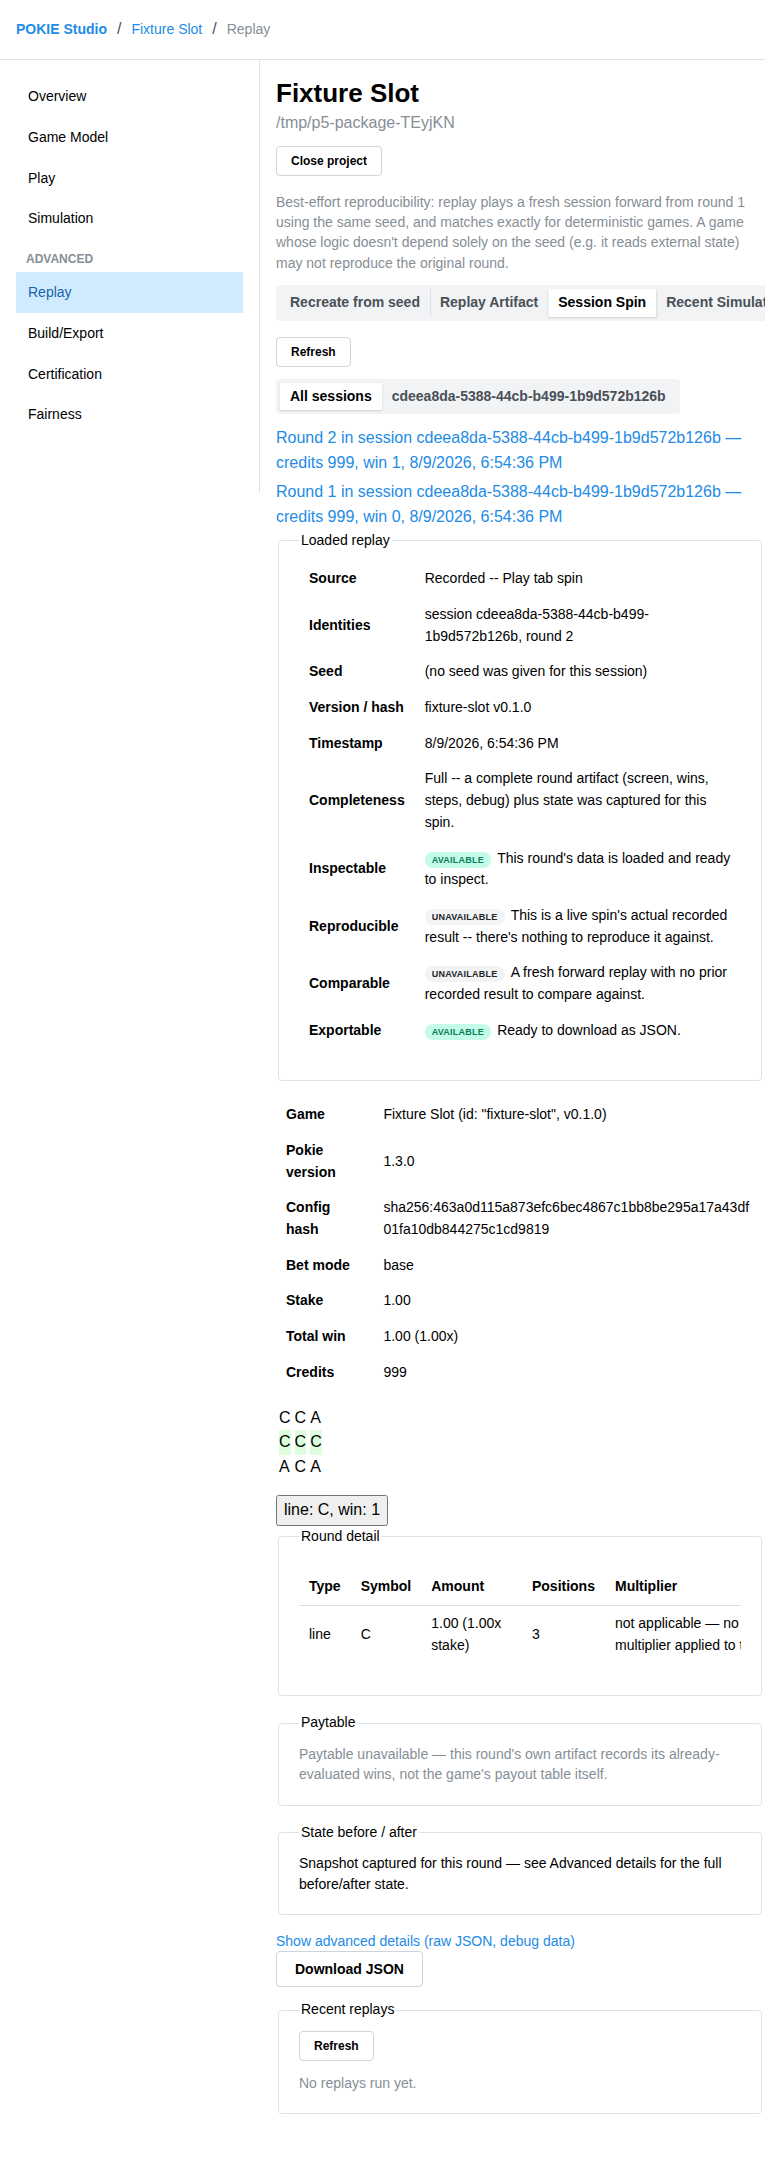
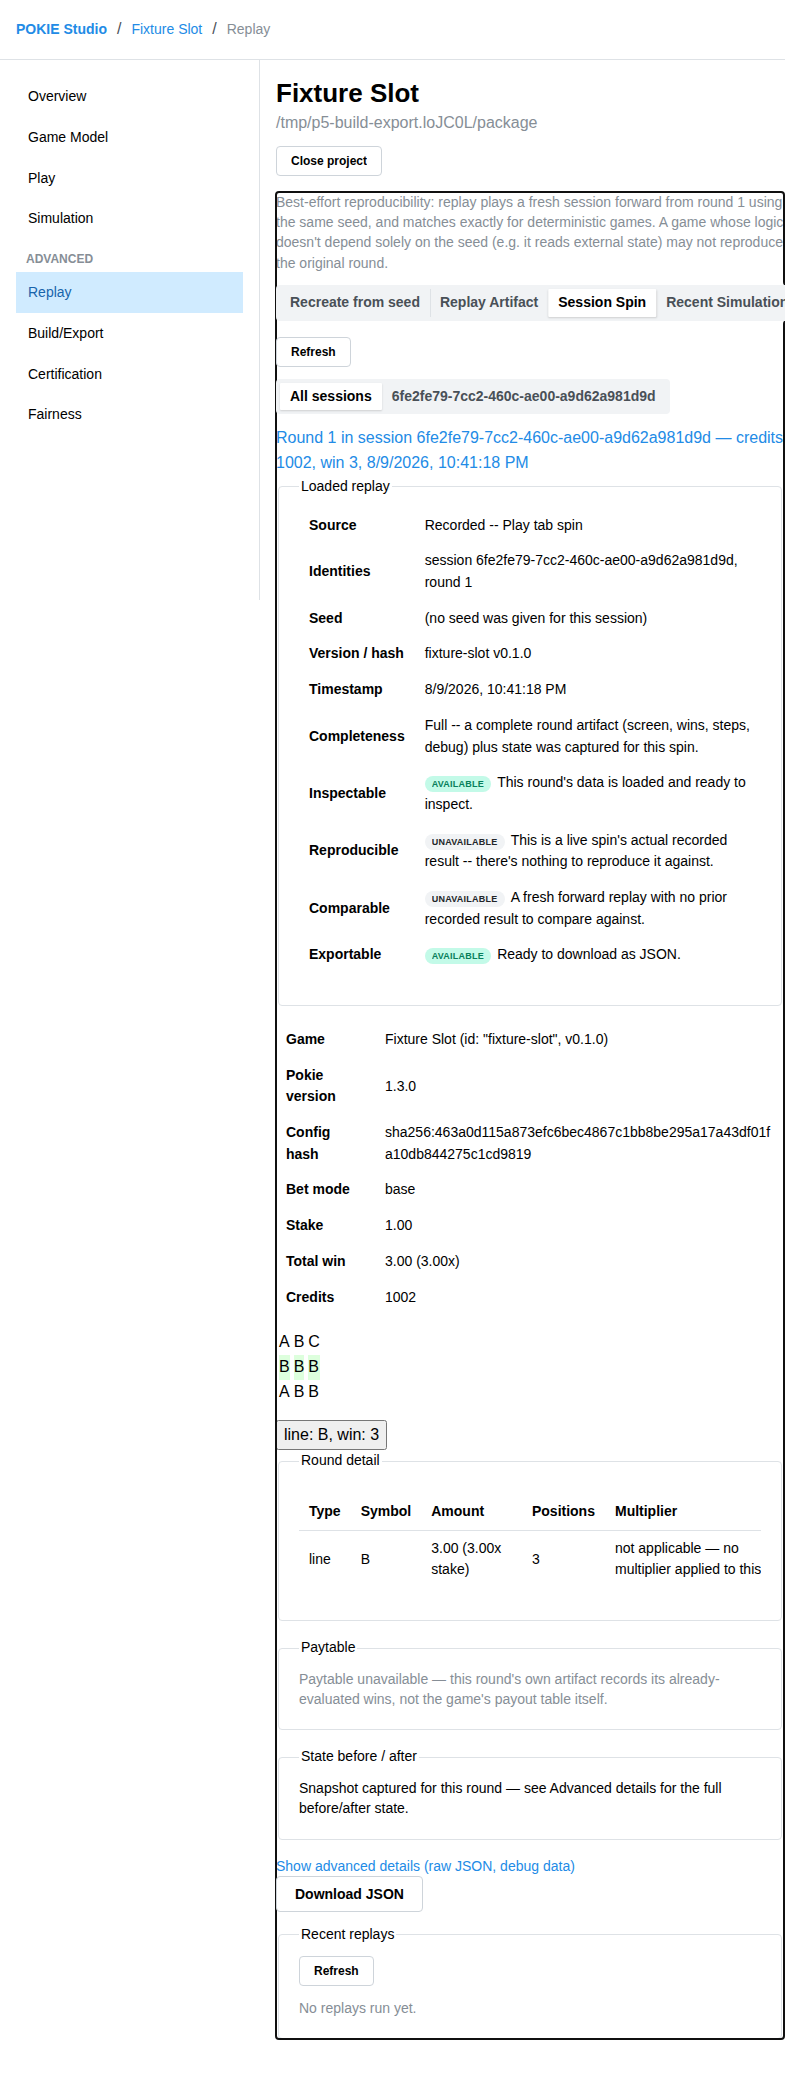
[P5-POLISH-20] promote real Build/Export rerun into complete/ evidence

Changed region(s): [[0.0301, 0.0, 1.0, 0.9938]]

diff --git a/docs/phase5-audit/README.md b/docs/phase5-audit/README.md
@@ -447,7 +447,7 @@ action.
 | Mathematician: Play scenario | `04-mathematician-play-scenario.png` / `.txt` | New session then Find any win displays a settled RoundArtifact. |
 | QA: simulation | `05-qa-simulation-run.png` / `.txt` | A materialized developer package completes 10,000 rounds and shows RTP, confidence interval and its reproducibility warning. |
 | QA: Replay | `06-qa-replay-session-spin.png` / `.txt` | The browser selects a recorded Play spin and opens its complete round inspector. |
-| Integration engineer: Build/Export and developer package | `07-integration-build-export.png` / `.txt` | **Stale — see "Correction round 3" below.** This capture only opened the Build/Export tab; no Generate/Export control was clicked. |
+| Integration engineer: Build/Export and developer package | `07-integration-build-export.png` / `.txt` | **Updated by "Correction round 5" below.** The rendered "Generate outcome library (base)" and "Run Stake Engine Export (base)" controls were both clicked; the capture shows `Generated 11,638 outcomes for mode "base" (RTP 100.00%) into outcomelibrary.` and `Exported 4 file(s) to .../stakeengine.`. |
 
 The package was generated from the audited Blueprint with `pokie build <blueprint> --target tsPackage --out
 <empty-directory>` before the package-backed browser routes were run. Its visible Studio location, plus the
@@ -455,9 +455,11 @@ completed simulation and recorded replay, establish that this is a real develope
 fixture. The transcript distinguishes the Blueprint-hosted edit audit from the package-hosted executable
 journeys; it does not claim that a raw `.json` Blueprint is itself a runnable package.
 
-No P0/P1 or material P2 finding remained in areas 1–6 of this browser pass. **Area 7 (Build/Export) is not yet
-evidenced as an executed action — see "Correction round 3" immediately below — so the claim that all seven
-required browser-backed journey areas are evidenced with reproducible actions does not currently hold.**
+No P0/P1 or material P2 finding remained in areas 1–6 of this browser pass. Area 7 (Build/Export) went through
+two more correction rounds below ("Correction round 3" diagnosed a stale capture and a script bug; "Correction
+round 4" produced a real replacement rerun; "Correction round 5" promoted that rerun into this table's own
+`evidence/host-browser/complete/` files) before all seven areas were evidenced with reproducible, executed
+actions in the location this section's own links point at.
 
 This is an external-evidence response to the saved reviewer block, not a claim that the container itself gained a
 browser. It must now go through the orchestrator's narrow `pa resolve-blocked` path, which will independently
@@ -551,3 +553,35 @@ Detect/Register accepts both shapes. Correction work must make the import path c
 truthful for the complete authoritative ProjectType set, with regression coverage for a Blueprint file and a
 directory project, then rerun this real Studio import journey. This finding must receive implementation and
 independent review before this hard gate can complete.
+
+## Correction round 5 (2026-08-09): the real Build/Export rerun is now the evidence this step's own links point at
+
+This step's reviewer (reviewing `b0bac119`, before "Correction round 3" and "Correction round 4" above existed on
+this branch) correctly flagged that the audit evidence a reader actually lands on —
+[`evidence/host-browser/complete/`](evidence/host-browser/complete/) — still only showed the Build/Export tab
+being opened, with no Generate/Export control clicked. That was accurate: "Correction round 4"'s real rerun with
+genuine `Generated 11,638 outcomes`/`Exported 4 file(s)` results was written to a sibling
+`evidence/host-browser/recovery-20260809-rerun1/` directory and never copied into `complete/`, so the directory
+this step's own table above and every external evidence link resolves to was still the stale `b0bac119` capture.
+
+This round copies the complete, verified `recovery-20260809-rerun1` capture set — all seven numbered
+screenshots/text pairs, `ACTION-TRANSCRIPT.txt`, and `ARTIFACT-VERIFICATION.txt` — into
+[`evidence/host-browser/complete/`](evidence/host-browser/complete/), replacing the stale `b0bac119` files, and
+regenerates that directory's `SHA256SUMS.txt` against the new contents. No new browser session was run for this
+round; this is a promotion of the already-real, already-independently-verified "Correction round 4" rerun into the
+location the reviewer (and every other link in this document) actually checks, not a fresh capture. The
+`complete/ACTION-TRANSCRIPT.txt` Build/Export tail now reads `CLICK "Generate outcome library (base)" via
+rendered BUTTON`, `RESULT rendered outcome library generation succeeded`, `CLICK "Run Stake Engine Export (base)"
+via rendered BUTTON`, `RESULT rendered Stake Engine export completed`, matching `07-integration-build-export.txt`'s
+`Generated 11,638 outcomes for mode "base" (RTP 100.00%) into outcomelibrary.` and `Exported 4 file(s) to
+.../stakeengine.` text, with the on-disk artifact/hash cross-check preserved in `complete/ARTIFACT-VERIFICATION.txt`.
+
+`evidence/host-browser/recovery-20260809-rerun1/` and `evidence/host-browser/recovery-20260809/` (the earlier
+failed attempt) are left in place as the historical record of how this evidence was actually produced; they are
+no longer the canonical copy.
+
+This round did not touch the file-vs-folder import-wording defect "Correction round 4" found — that P2 remains a
+real, separate, unresolved product defect and this document's claim that P5-POLISH-20 is fully unblocked still
+does not hold until it gets its own implementation and independent review. This round's own scope was narrowly
+the reviewer's stated concern: that the Build/Export journey's *saved evidence*, in the directory the audit
+actually publishes, must show an executed action and its real result, not just an opened tab.
